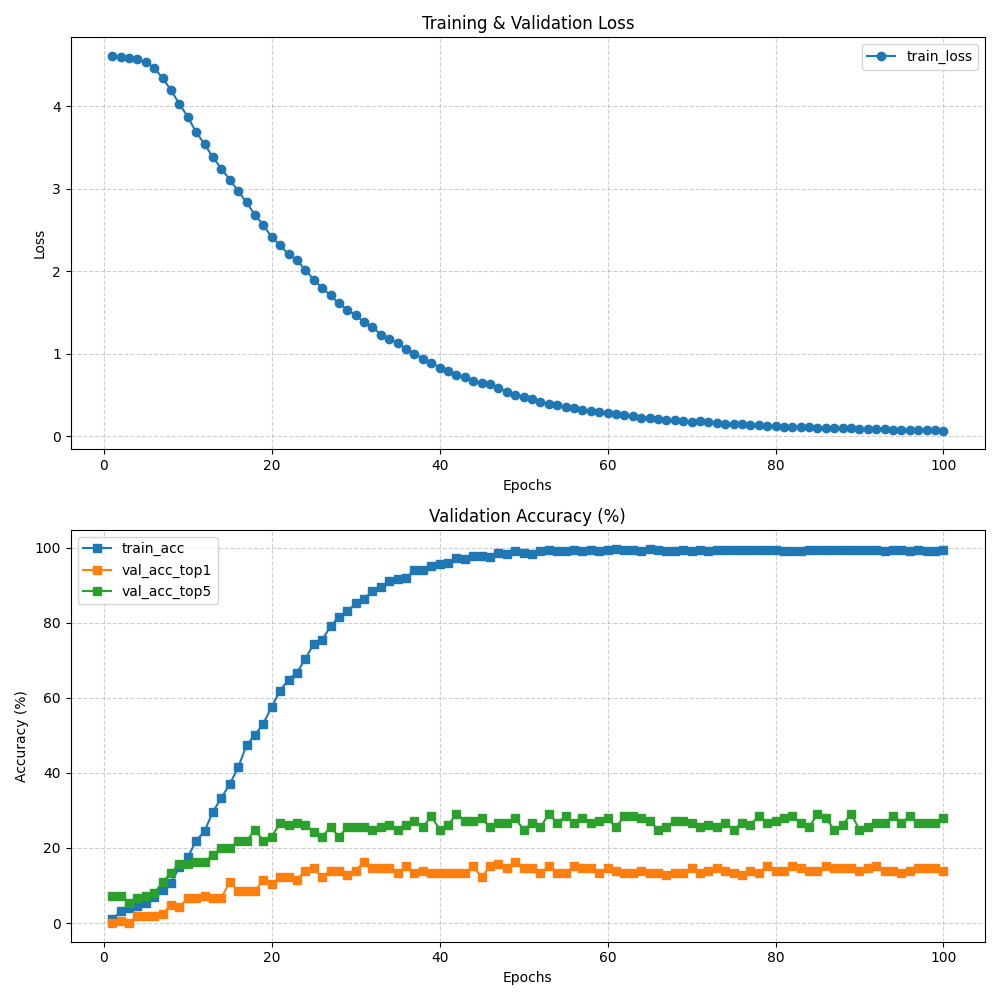
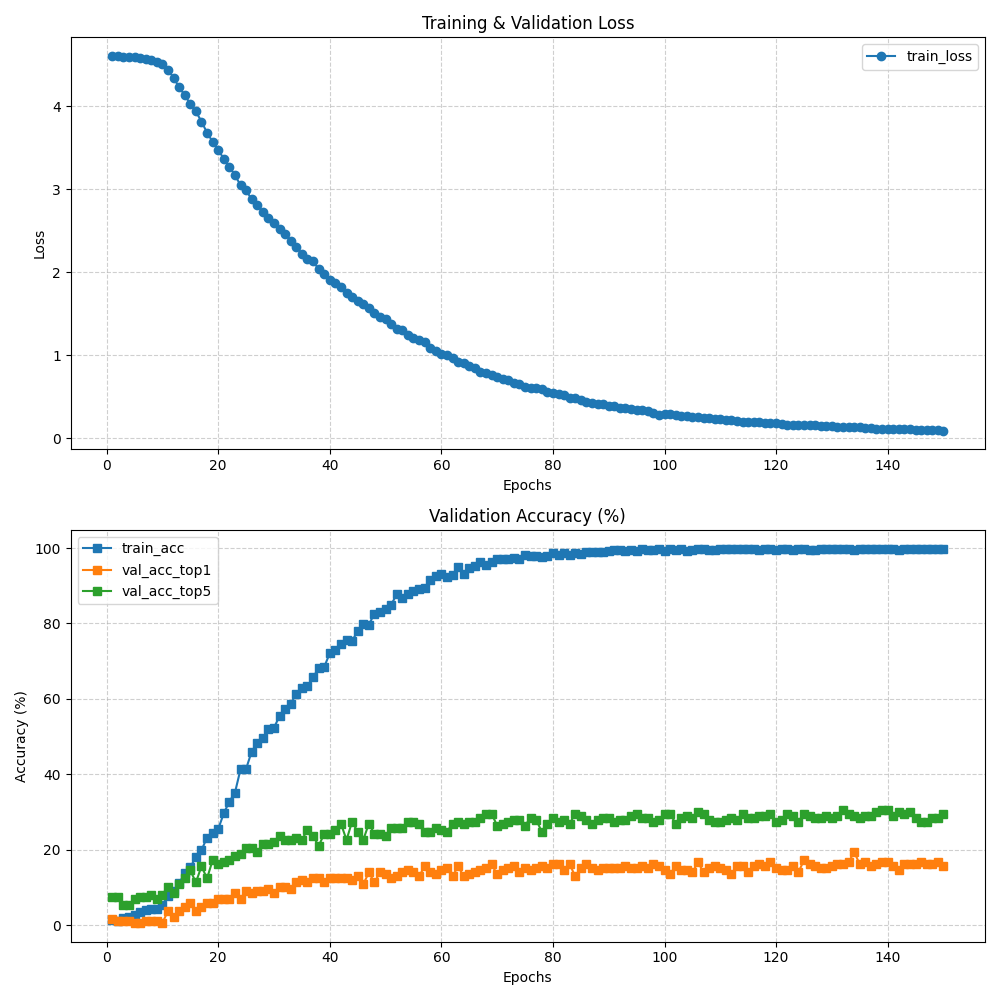
more results

diff --git a/train.py b/train.py
@@ -24,7 +24,7 @@ import json
 import os
 from utils import get_accuracy_counts
 from device import get_device
-from config import JSON_PATH, VIDEO_DIR, HISTORY_PATH, MODEL_DIR, LR, BATCH_SIZE, DEBUG_BATCH_SIZE, EPOCHS, DEBUG_EPOCHS, NUM_WORKERS, PIN_MEMORY, FROZEN_CNN, USE_CACHED_FEATURES, NUM_CLASSES
+from config import JSON_PATH, VIDEO_DIR, HISTORY_PATH, MODEL_DIR, LR, BATCH_SIZE, DEBUG_BATCH_SIZE, EPOCHS, DEBUG_EPOCHS, NUM_WORKERS, PIN_MEMORY, FROZEN_CNN, USE_CACHED_FEATURES, NUM_CLASSES, WEIGHT_DECAY
 
 
 def get_dataloader(split: str, debug_mode: bool, batch_size: int) -> DataLoader:
@@ -104,7 +104,7 @@ def train(args):
     
     # Initialize Adam (adaptive learning rate optimizer)
     # Combines momentum and RMSprop updates
-    optimizer = optim.Adam(model.parameters(), lr=LR)
+    optimizer = optim.Adam(model.parameters(), lr=LR, weight_decay=WEIGHT_DECAY)
     
     # CrossEntropyLoss since we are doing multi-class classification
     criterion = nn.CrossEntropyLoss()

diff --git a/dataset.py b/dataset.py
@@ -256,9 +256,17 @@ class WLASLDataset(Dataset):
         Returns:
             torch.Tensor: Augmented features tensor of shape (frames_per_clip, feature_dim)
         """
+        if np.random.random() < 0.5:
+            return features
+        
         # 1. Choose a random speed factor (0.5x to 1.5x)
         # < 1.0 means fast (fewer frames), > 1.0 means slow (more frames)
-        speed_factor = np.random.uniform(0.5, 1.5)
+        speed_factor = np.random.uniform(0.5, 1.2)
+
+        # [NEW] Add Gaussian Noise (Jitter)
+        # This prevents the model from memorizing exact feature values
+        noise = torch.randn_like(features) * 0.02 # 2% noise
+        features = features + noise
         
         # 2. Determine the new length
         original_len = features.shape[0]

diff --git a/model.py b/model.py
@@ -1,6 +1,7 @@
 import torch
 import torch.nn as nn
 from torchvision import models
+import config
 
 class ASLResNetLSTM(nn.Module):
     """
@@ -79,7 +80,7 @@ class ASLResNetLSTM(nn.Module):
         # mobilenetv2 outputs 1280-dimensional feature vectors per frame
         MOBILENET_FEATURE_SIZE = 1280
         # randomly sets 30% of activations to 0 during training to prevent overfitting
-        LSTM_DROPOUT = 0.3
+        LSTM_DROPOUT = config.LSTM_DROPOUT
 
         self.lstm = nn.LSTM(
             input_size=MOBILENET_FEATURE_SIZE,

diff --git a/config.py b/config.py
@@ -24,11 +24,13 @@ HISTORY_PATH = "results/history.json"        # Path to save history
 MODEL_DIR = "results/models"              # Path to save models
 HISTORY_GRAPH_PATH = "results/history.png"
 LR = 1e-4                           # Learning rate
+WEIGHT_DECAY = 1e-4
+LSTM_DROPOUT = 0.5
 
 # GPU config (tuned for my setup - 4070 Ti)
 BATCH_SIZE = 64
 DEBUG_BATCH_SIZE = 2
-EPOCHS = 100
+EPOCHS = 150
 DEBUG_EPOCHS = 1
 
 # CPU config (tuned for my setup - 5800X3D)
